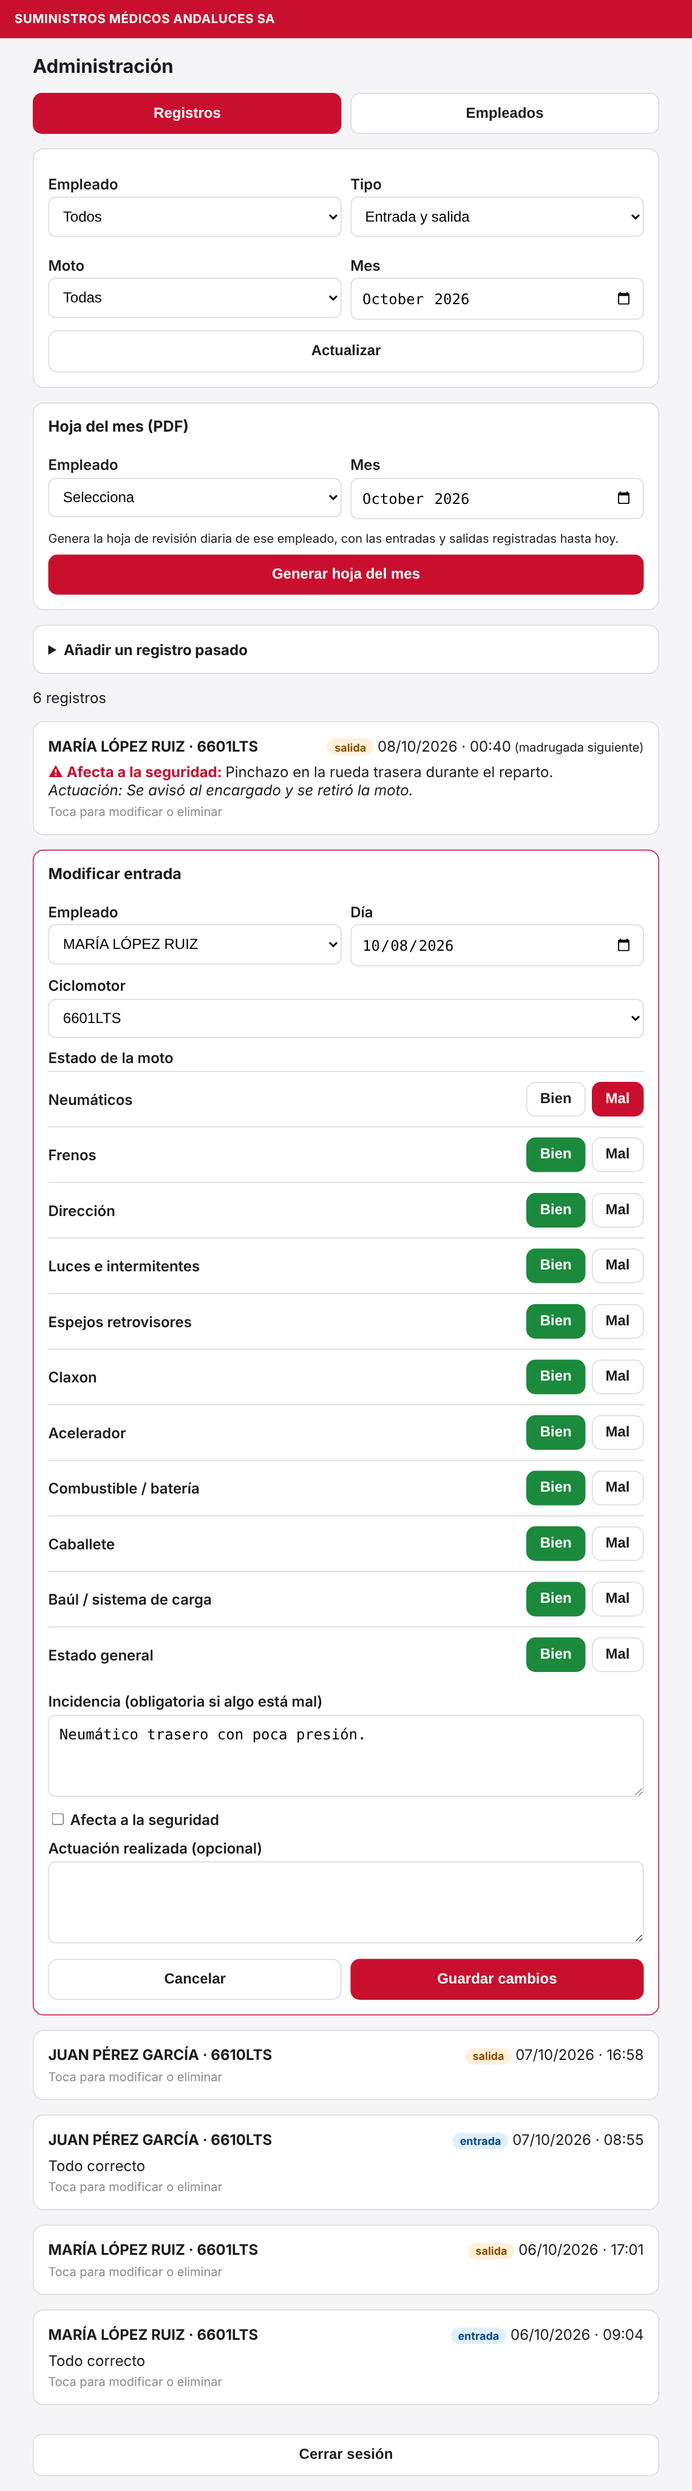
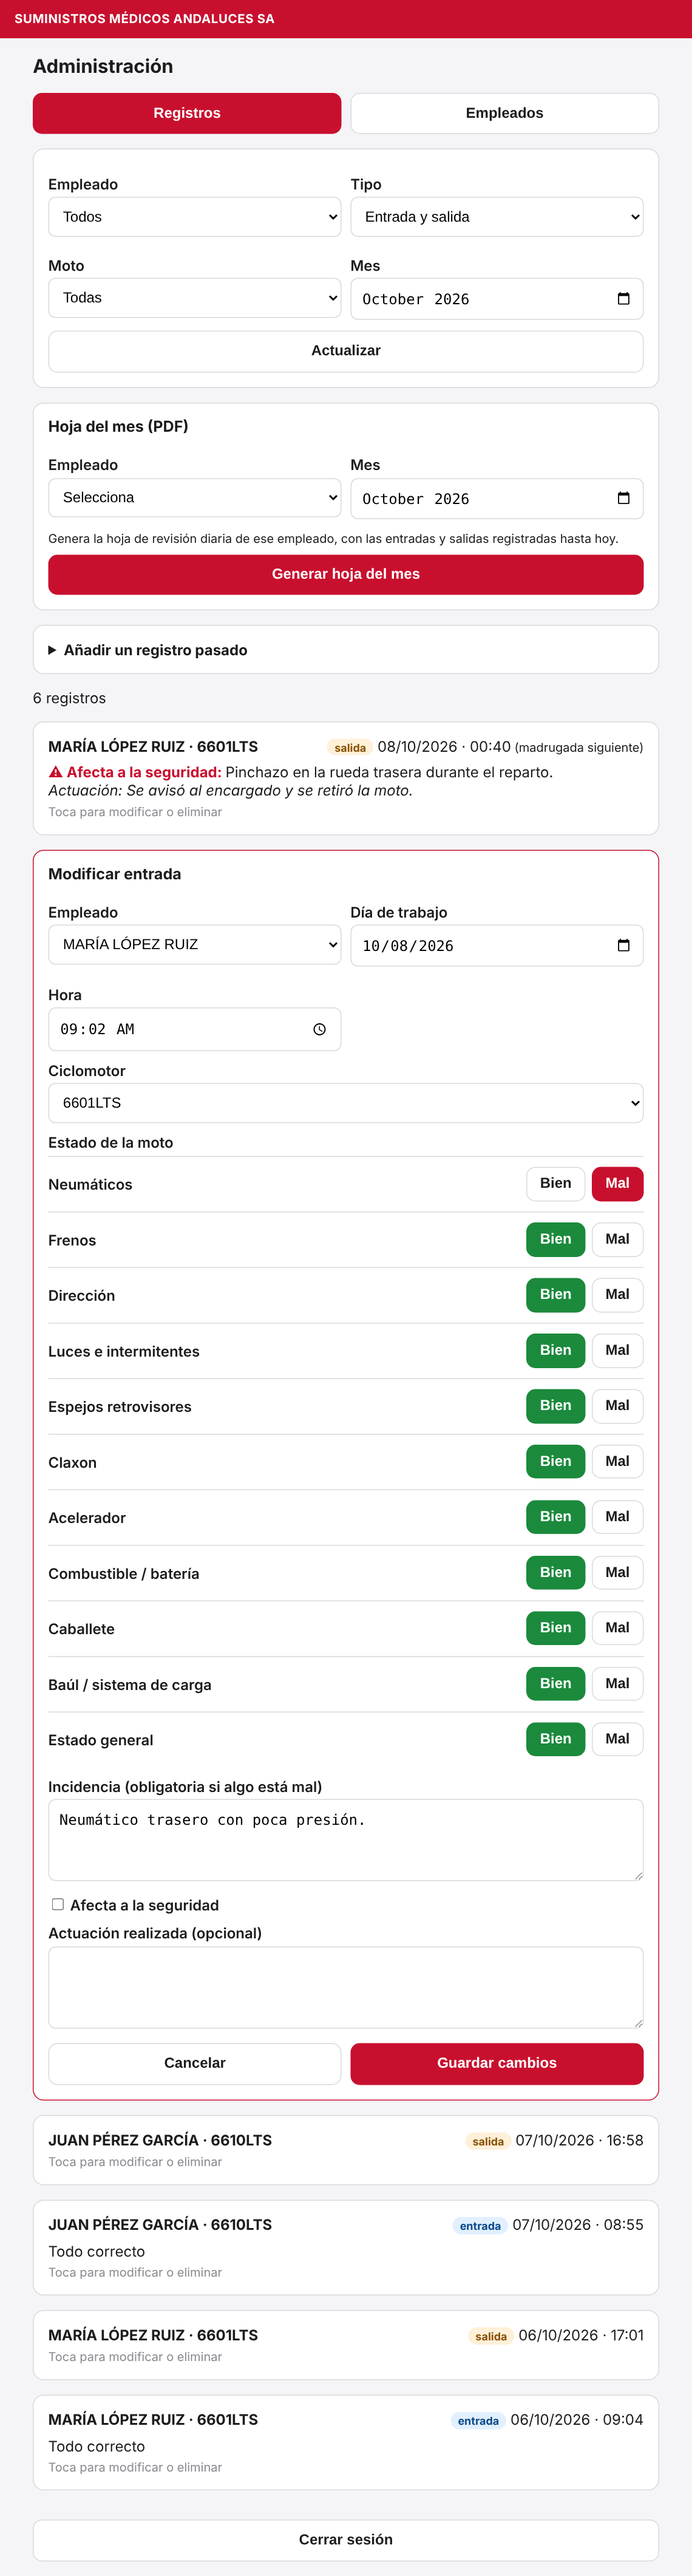
Hora editable en los registros y el administrador cumple la norma de la salida
- Al modificar o añadir un registro se elige también la hora (las salidas
  hasta la 1:30 se guardan en la madrugada siguiente, en el día elegido).
- El administrador no puede registrar una salida sin entrada ese día; la
  salida toma la moto de la entrada. No se puede eliminar una entrada con salida.
- Disparador en la base de datos que impone la norma y restricción única
  por empleado, tipo y día.
- README, esquema, changelog y capturas actualizados.

Claude-Session: https://claude.ai/code/session_012hYckvVuMk8kirB3PCbMiE

diff --git a/src/components/AnadirRegistro.vue b/src/components/AnadirRegistro.vue
@@ -2,7 +2,7 @@
 import { computed, reactive, ref, watch } from 'vue'
 import { ELEMENTOS, MOTOS } from '../lib/config'
 import { supabase } from '../lib/supabase'
-import { instanteDeDia, registroExistente, fechaCorta, entradaDelDia } from '../lib/dias'
+import { instanteDeDia, registroExistente, fechaCorta, entradaDelDia, horaPorDefecto } from '../lib/dias'
 
 const props = defineProps({ empleados: { type: Array, required: true } })
 const emit = defineEmits(['guardado'])
@@ -13,6 +13,8 @@ const fechaMax = `${hoy.getFullYear()}-${String(hoy.getMonth() + 1).padStart(2, 
 const empleadoId = ref('')
 const fecha = ref('')
 const tipo = ref('entrada')
+const hora = ref(horaPorDefecto('entrada'))
+const sinEntrada = ref(false) // en una salida: ese empleado no tiene entrada ese día
 const matricula = ref('')
 const motoEntrada = ref(null) // moto de la entrada de ese día, si ya existe (la salida debe usarla)
 const checks = reactive(Object.fromEntries(ELEMENTOS.map((e) => [e.key, true])))
@@ -25,16 +27,26 @@ const ok = ref('')
 const hayMal = computed(() => tipo.value === 'entrada' && Object.values(checks).some((v) => v === false))
 const matriculaLimpia = computed(() => matricula.value.toUpperCase().replace(/\s+/g, ' ').trim())
 const valido = computed(
-  () => empleadoId.value && fecha.value && matriculaLimpia.value.length >= 3 && (!hayMal.value || incidencia.value.trim()),
+  () =>
+    empleadoId.value &&
+    fecha.value &&
+    hora.value &&
+    matriculaLimpia.value.length >= 3 &&
+    !sinEntrada.value &&
+    (!hayMal.value || incidencia.value.trim()),
 )
+
+watch(tipo, (t) => (hora.value = horaPorDefecto(t)))
 
 // La salida lleva la moto de la entrada de ese día
 watch([empleadoId, fecha, tipo], async () => {
   motoEntrada.value = null
+  sinEntrada.value = false
   if (tipo.value !== 'salida' || !empleadoId.value || !fecha.value) return
   try {
     const e = await entradaDelDia({ empleadoId: empleadoId.value, dia: fecha.value })
     motoEntrada.value = e?.matricula ?? null
+    sinEntrada.value = !e
     if (e) matricula.value = e.matricula
   } catch {
     motoEntrada.value = null
@@ -47,6 +59,15 @@ async function guardar() {
   guardando.value = true
   const emp = props.empleados.find((e) => e.id === empleadoId.value)
   try {
+    if (tipo.value === 'salida') {
+      const entrada = await entradaDelDia({ empleadoId: emp.id, dia: fecha.value })
+      if (!entrada) {
+        error.value = `${emp.nombre} no tiene entrada el ${fechaCorta(fecha.value)}. Registra primero la entrada para poder registrar la salida.`
+        guardando.value = false
+        return
+      }
+      matricula.value = entrada.matricula
+    }
     if (await registroExistente({ empleadoId: emp.id, tipo: tipo.value, dia: fecha.value })) {
       error.value = `${emp.nombre} ya tiene una ${tipo.value} el ${fechaCorta(fecha.value)}. Modifica ese registro desde la lista en vez de crear otro.`
       guardando.value = false
@@ -63,7 +84,7 @@ async function guardar() {
     empleado_id: emp.id,
     matricula: matriculaLimpia.value,
     dia: fecha.value,
-    created_at: instanteDeDia(fecha.value, tipo.value),
+    created_at: instanteDeDia(fecha.value, tipo.value, hora.value),
     checks: tipo.value === 'entrada' ? { ...checks } : null,
     incidencia: incidencia.value.trim() || null,
     afecta_seguridad: incidencia.value.trim() ? afecta.value : false,
@@ -93,10 +114,6 @@ async function guardar() {
           </select>
         </div>
         <div>
-          <label>Fecha</label>
-          <input v-model="fecha" type="date" :max="fechaMax" required />
-        </div>
-        <div>
           <label>Registro</label>
           <select v-model="tipo">
             <option value="entrada">Entrada</option>
@@ -104,16 +121,23 @@ async function guardar() {
           </select>
         </div>
         <div>
-          <label>Ciclomotor</label>
-          <select v-model="matricula" required :disabled="Boolean(motoEntrada)">
-            <option value="" disabled>Selecciona</option>
-            <option v-for="m in MOTOS" :key="m">{{ m }}</option>
-          </select>
+          <label>Día de trabajo</label>
+          <input v-model="fecha" type="date" :max="fechaMax" required />
+        </div>
+        <div>
+          <label>Hora</label>
+          <input v-model="hora" type="time" required />
         </div>
       </div>
+      <label>Ciclomotor</label>
+      <select v-model="matricula" required :disabled="Boolean(motoEntrada)">
+        <option value="" disabled>Selecciona</option>
+        <option v-for="m in MOTOS" :key="m">{{ m }}</option>
+      </select>
 
       <p v-if="tipo === 'salida' && motoEntrada"><small>La salida usa la moto de la entrada de ese día ({{ motoEntrada }}).</small></p>
-      <p v-else-if="tipo === 'salida' && empleadoId && fecha"><small>⚠ Ese empleado no tiene entrada ese día. Si puedes, añade primero la entrada.</small></p>
+      <p v-else-if="tipo === 'salida' && sinEntrada" class="error">Ese empleado no tiene entrada ese día. Registra primero la entrada para poder registrar la salida.</p>
+      <p v-if="tipo === 'salida'"><small>Las salidas hasta la 1:30 de la madrugada cuentan para el día de trabajo anterior.</small></p>
 
       <template v-if="tipo === 'entrada'">
         <label>Estado de la moto ese día</label>

diff --git a/src/components/EditarRegistro.vue b/src/components/EditarRegistro.vue
@@ -2,7 +2,7 @@
 import { computed, onMounted, reactive, ref, watch } from 'vue'
 import { ELEMENTOS, MOTOS } from '../lib/config'
 import { supabase } from '../lib/supabase'
-import { instanteDeDia, registroExistente, fechaCorta, entradaDelDia } from '../lib/dias'
+import { instanteDeDia, registroExistente, fechaCorta, entradaDelDia, horaDeInstante } from '../lib/dias'
 
 const props = defineProps({
   registro: { type: Object, required: true },
@@ -16,6 +16,9 @@ const fechaMax = `${hoy.getFullYear()}-${String(hoy.getMonth() + 1).padStart(2, 
 
 const empleadoId = ref(r.empleado_id ?? '')
 const dia = ref(r.dia)
+const hora = ref(horaDeInstante(r.created_at))
+const horaInicial = hora.value
+const sinEntrada = ref(false) // en una salida: ese empleado no tiene entrada ese día
 const matricula = ref(r.matricula)
 const checks = reactive(Object.fromEntries(ELEMENTOS.map((e) => [e.key, r.checks?.[e.key] ?? true])))
 const incidencia = ref(r.incidencia ?? '')
@@ -31,10 +34,12 @@ const hayMal = computed(() => esEntrada && Object.values(checks).some((v) => v =
 // Una salida debe llevar la moto de la entrada de ese mismo día
 async function buscarMotoEntrada() {
   motoEntrada.value = null
+  sinEntrada.value = false
   if (r.tipo !== 'salida' || !empleadoId.value || !dia.value) return
   try {
     const e = await entradaDelDia({ empleadoId: empleadoId.value, dia: dia.value })
     motoEntrada.value = e?.matricula ?? null
+    sinEntrada.value = !e
     if (e) matricula.value = e.matricula
   } catch {
     motoEntrada.value = null
@@ -43,13 +48,32 @@ async function buscarMotoEntrada() {
 onMounted(buscarMotoEntrada)
 watch([empleadoId, dia], buscarMotoEntrada)
 
-const valido = computed(() => empleadoId.value && dia.value && matricula.value && (!hayMal.value || incidencia.value.trim()))
+const valido = computed(
+  () => empleadoId.value && dia.value && hora.value && matricula.value && !sinEntrada.value && (!hayMal.value || incidencia.value.trim()),
+)
 
 async function guardar() {
   error.value = ''
   guardando.value = true
   const emp = props.empleados.find((e) => e.id === empleadoId.value)
   try {
+    if (r.tipo === 'salida') {
+      const entrada = await entradaDelDia({ empleadoId: emp.id, dia: dia.value })
+      if (!entrada) {
+        error.value = `${emp.nombre} no tiene entrada el ${fechaCorta(dia.value)}. Una salida necesita una entrada ese día.`
+        guardando.value = false
+        return
+      }
+      matricula.value = entrada.matricula
+    } else if ((emp.id !== r.empleado_id || dia.value !== r.dia) && r.empleado_id) {
+      // Si se mueve una entrada, no puede dejar sin entrada a la salida de su día
+      const salida = await registroExistente({ empleadoId: r.empleado_id, tipo: 'salida', dia: r.dia })
+      if (salida) {
+        error.value = `Esta entrada tiene una salida el ${fechaCorta(r.dia)}. Mueve o elimina primero esa salida.`
+        guardando.value = false
+        return
+      }
+    }
     if (await registroExistente({ empleadoId: emp.id, tipo: r.tipo, dia: dia.value, exceptoId: r.id })) {
       error.value = `${emp.nombre} ya tiene una ${r.tipo} el ${fechaCorta(dia.value)}. Elige otro día u otro empleado.`
       guardando.value = false
@@ -70,7 +94,7 @@ async function guardar() {
     afecta_seguridad: incidencia.value.trim() ? afecta.value : false,
     actuacion: actuacion.value.trim() || null,
   }
-  if (dia.value !== r.dia) cambios.created_at = instanteDeDia(dia.value, r.tipo) // si se cambia de día, se mueve la hora con él
+  if (dia.value !== r.dia || hora.value !== horaInicial) cambios.created_at = instanteDeDia(dia.value, r.tipo, hora.value)
   const { error: err } = await supabase.from('registros').update(cambios).eq('id', r.id)
   if (err) { guardando.value = false; error.value = 'No se pudo guardar los cambios.'; return }
   // Si se cambia la moto de una entrada, la salida de ese día pasa a llevar la misma
@@ -95,10 +119,16 @@ async function guardar() {
         </select>
       </div>
       <div>
-        <label>Día</label>
+        <label>Día de trabajo</label>
         <input v-model="dia" type="date" :max="fechaMax" required />
       </div>
+      <div>
+        <label>Hora</label>
+        <input v-model="hora" type="time" required />
+      </div>
     </div>
+    <small v-if="r.tipo === 'salida'">Las salidas hasta la 1:30 de la madrugada cuentan para el día de trabajo anterior.</small>
+    <p v-if="sinEntrada" class="error">Ese empleado no tiene entrada ese día. Una salida necesita una entrada.</p>
     <label>Ciclomotor</label>
     <select v-model="matricula" required :disabled="Boolean(motoEntrada)">
       <option v-for="m in motos" :key="m">{{ m }}</option>

diff --git a/src/views/Admin.vue b/src/views/Admin.vue
@@ -6,7 +6,7 @@ import { generarHojaMensual } from '../lib/pdf'
 import AnadirRegistro from '../components/AnadirRegistro.vue'
 import Empleados from '../components/Empleados.vue'
 import EditarRegistro from '../components/EditarRegistro.vue'
-import { rangoMesDia, fechaCorta, horaLocal, esDiaSiguiente } from '../lib/dias'
+import { rangoMesDia, fechaCorta, horaLocal, esDiaSiguiente, registroExistente } from '../lib/dias'
 
 const sesion = ref(false)
 const password = ref('')
@@ -97,15 +97,26 @@ function cerrarEdicion(recargar) {
 }
 
 async function eliminar(r) {
+  error.value = ''
+  if (r.tipo === 'entrada' && r.empleado_id) {
+    try {
+      if (await registroExistente({ empleadoId: r.empleado_id, tipo: 'salida', dia: r.dia })) {
+        window.alert(`No se puede eliminar esta entrada: ${r.conductor} tiene una salida el ${fechaCorta(r.dia)}.\n\nElimina primero la salida.`)
+        return
+      }
+    } catch {
+      window.alert('No se pudo comprobar si esta entrada tiene salida. Inténtalo de nuevo.')
+      return
+    }
+  }
   const ok = window.confirm(
     `¿Eliminar este registro de ${r.tipo} de ${r.conductor} (${fechaCorta(r.dia)})?\n\nSe borrará de forma permanente y no se podrá recuperar.`,
   )
   if (!ok) return
-  error.value = ''
   eliminando.value = true
   const { error: err } = await supabase.from('registros').delete().eq('id', r.id)
   eliminando.value = false
-  if (err) { error.value = 'No se pudo eliminar el registro.'; return }
+  if (err) { window.alert('No se pudo eliminar el registro.'); return }
   seleccionado.value = null
   cargar()
 }

diff --git a/src/lib/dias.js b/src/lib/dias.js
@@ -20,11 +20,23 @@ export const esDiaSiguiente = (iso, dia) => {
   return local !== dia
 }
 
-// Hora a la que se guarda un registro creado o movido a mano a un día concreto
-export const instanteDeDia = (dia, tipo) => {
+// Instante real de un registro dado su día de trabajo y su hora ('HH:MM').
+// Las salidas hasta la 1:30 pertenecen al día anterior: su hora real es de madrugada, ya en el día natural siguiente.
+export const instanteDeDia = (dia, tipo, hora) => {
   const [a, m, d] = dia.split('-').map(Number)
-  return new Date(a, m - 1, d, tipo === 'entrada' ? 9 : 17, 0).toISOString()
+  const [hh, mm] = (hora || (tipo === 'entrada' ? '09:00' : '17:00')).split(':').map(Number)
+  const madrugada = tipo === 'salida' && (hh < 1 || (hh === 1 && mm <= 30))
+  return new Date(a, m - 1, d + (madrugada ? 1 : 0), hh, mm).toISOString()
 }
+
+// Hora local ('HH:MM') de un instante ISO, para los campos de hora
+export const horaDeInstante = (iso) => {
+  const d = new Date(iso)
+  return `${String(d.getHours()).padStart(2, '0')}:${String(d.getMinutes()).padStart(2, '0')}`
+}
+
+// Hora por defecto al crear un registro a mano
+export const horaPorDefecto = (tipo) => (tipo === 'entrada' ? '09:00' : '17:00')
 
 // Devuelve el registro que ya existe para ese empleado, tipo y día (o null)
 export async function registroExistente({ empleadoId, tipo, dia, exceptoId = null }) {

diff --git a/README.md b/README.md
@@ -82,7 +82,7 @@ El administrador entra en `/#/admin` con su contraseña.
 - **Hoja mensual en PDF por empleado**, con el formato oficial de la empresa.
 - **Gestión de empleados**: crear, modificar y eliminar (nombre completo y PIN, sin PIN repetidos).
 - **Alta de registros pasados**, para días en que un empleado olvidó fichar.
-- **Modificar y eliminar cualquier registro**, sea quien sea quien lo creó: al tocar un registro aparecen las opciones *Modificar* y *Eliminar*. Antes de borrar se pide confirmación, porque el borrado es **permanente**.
+- **Modificar y eliminar cualquier registro**, sea quien sea quien lo creó: al tocar un registro aparecen las opciones *Modificar* y *Eliminar*. Al modificar se puede cambiar el empleado, el **día y la hora**, la moto y el estado. Antes de borrar se pide confirmación, porque el borrado es **permanente**.
 
 ## Reglas de funcionamiento
 
@@ -92,7 +92,7 @@ Pensadas para el día a día real de la tienda:
 - **Un registro de entrada y uno de salida por empleado y día.** No se pueden crear dos entradas, ni dos salidas, para el mismo día. Vale tanto para los empleados como para el administrador.
 - **Aviso antes de sustituir.** Si un empleado intenta registrar una entrada (o salida) cuando ya tiene una ese día, ve un mensaje como *«Ya registraste tu entrada de hoy (a las 09:02). ¿Quieres sustituirla por esta nueva entrada ahora mismo?»*. Si confirma, la anterior se sustituye por la nueva; si cancela, no cambia nada.
 - **Turnos de madrugada.** Como el reparto puede terminar pasada la medianoche, **las salidas registradas hasta la 1:30 de la madrugada (hora de Madrid) cuentan para el día anterior**. Así la salida queda en el mismo día de trabajo que su entrada, en el listado y en la hoja PDF. La hora real se conserva y el panel la marca como *«madrugada siguiente»*.
-- **El administrador tiene la última palabra.** Puede modificar o eliminar cualquier registro. Si una salida tiene su entrada ese día, su moto queda fijada a la de la entrada. Al modificarlo se aplican las mismas reglas: no puede dejar dos registros del mismo tipo en un día. Eliminar pide confirmación y no se puede deshacer.
+- **El administrador tiene la última palabra, pero cumple las mismas normas.** Puede modificar o eliminar cualquier registro, y elegir la hora de los que crea o modifica. Pero **no puede registrar una salida sin una entrada ese día**: la salida toma automáticamente la moto de la entrada. Tampoco puede eliminar una entrada que tiene salida (primero hay que eliminar la salida). Estas reglas las impone la propia base de datos, no solo el panel. Al modificarlo se aplican las mismas reglas: no puede dejar dos registros del mismo tipo en un día. Eliminar pide confirmación y no se puede deshacer.
 
 ## Capturas de pantalla
 

diff --git a/CHANGELOG.md b/CHANGELOG.md
@@ -3,6 +3,15 @@
 Todos los cambios relevantes del proyecto se documentan en este archivo.
 El formato sigue [Keep a Changelog](https://keepachangelog.com/es-ES/1.1.0/).
 
+## [1.3.0] - 2026-10-09
+
+### Añadido
+- Al **modificar o añadir un registro** desde el panel, ahora se puede elegir también la **hora**, además del día de trabajo. Una salida a una hora hasta la 1:30 se guarda en la madrugada siguiente, pero cuenta para el día elegido.
+- El administrador **cumple la norma de la salida**: no puede registrar una salida sin una entrada ese día, y la salida toma automáticamente la moto de la entrada.
+- No se puede eliminar una entrada que tiene salida ese día, ni mover una entrada dejando sin entrada a su salida.
+- Restricción en la base de datos (disparador `registros_salida_con_entrada`) que exige la entrada y fija la moto de la salida, aunque se intente saltar el panel.
+- Restricción única por empleado, tipo y día (`registros_unico_por_dia`) aplicada en la base de datos.
+
 ## [1.2.0] - 2026-10-09
 
 ### Añadido
